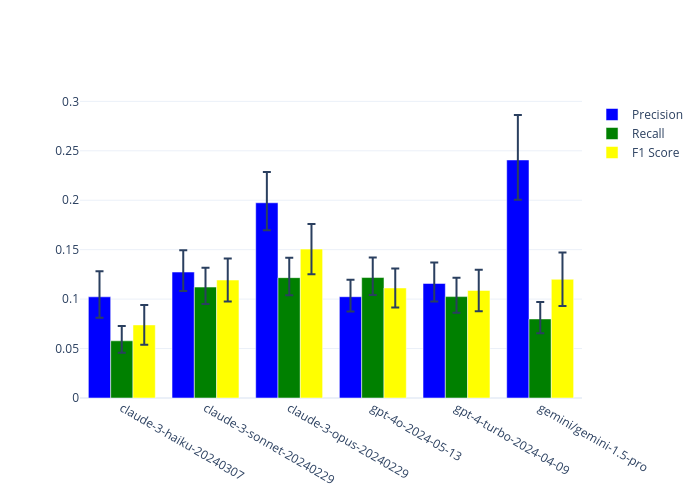
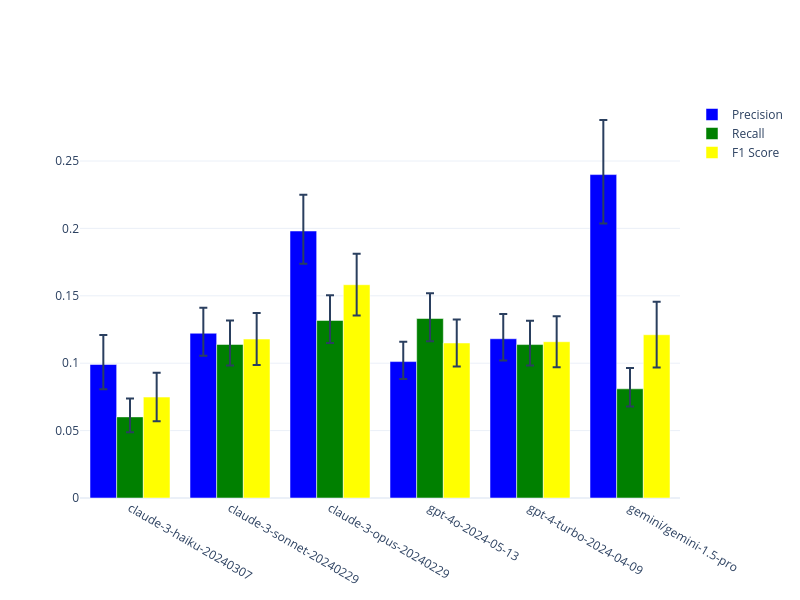
update plots

diff --git a/eyeballvul_experiments/results.py b/eyeballvul_experiments/results.py
@@ -113,6 +113,7 @@ def plot_overall_performance(
         results[model]["f1_ci_low"] = f1_ci[0]
         results[model]["f1_ci_upp"] = f1_ci[1]
 
+    results = {k: results[k] for k in sorted(results)}
     with open(Config.paths.results / "overall_performance.json", "w") as f:
         json.dump(results, f, indent=2)
         f.write("\n")
@@ -182,6 +183,9 @@ def plot_overall_performance(
     fig.update_layout(
         template="plotly_white",
         barmode="group",
+        width=800,
+        height=600,
+        font=dict(size=12),
     )
     fig.write_image(Config.paths.plots / "overall_performance.png")
 
@@ -222,7 +226,6 @@ def plot_overall_performance(
         width=800,
         height=600,
         font=dict(size=12),
-        legend=dict(x=1.02, y=1, orientation="v"),
     )
 
     fig.update_xaxes(rangemode="tozero")
